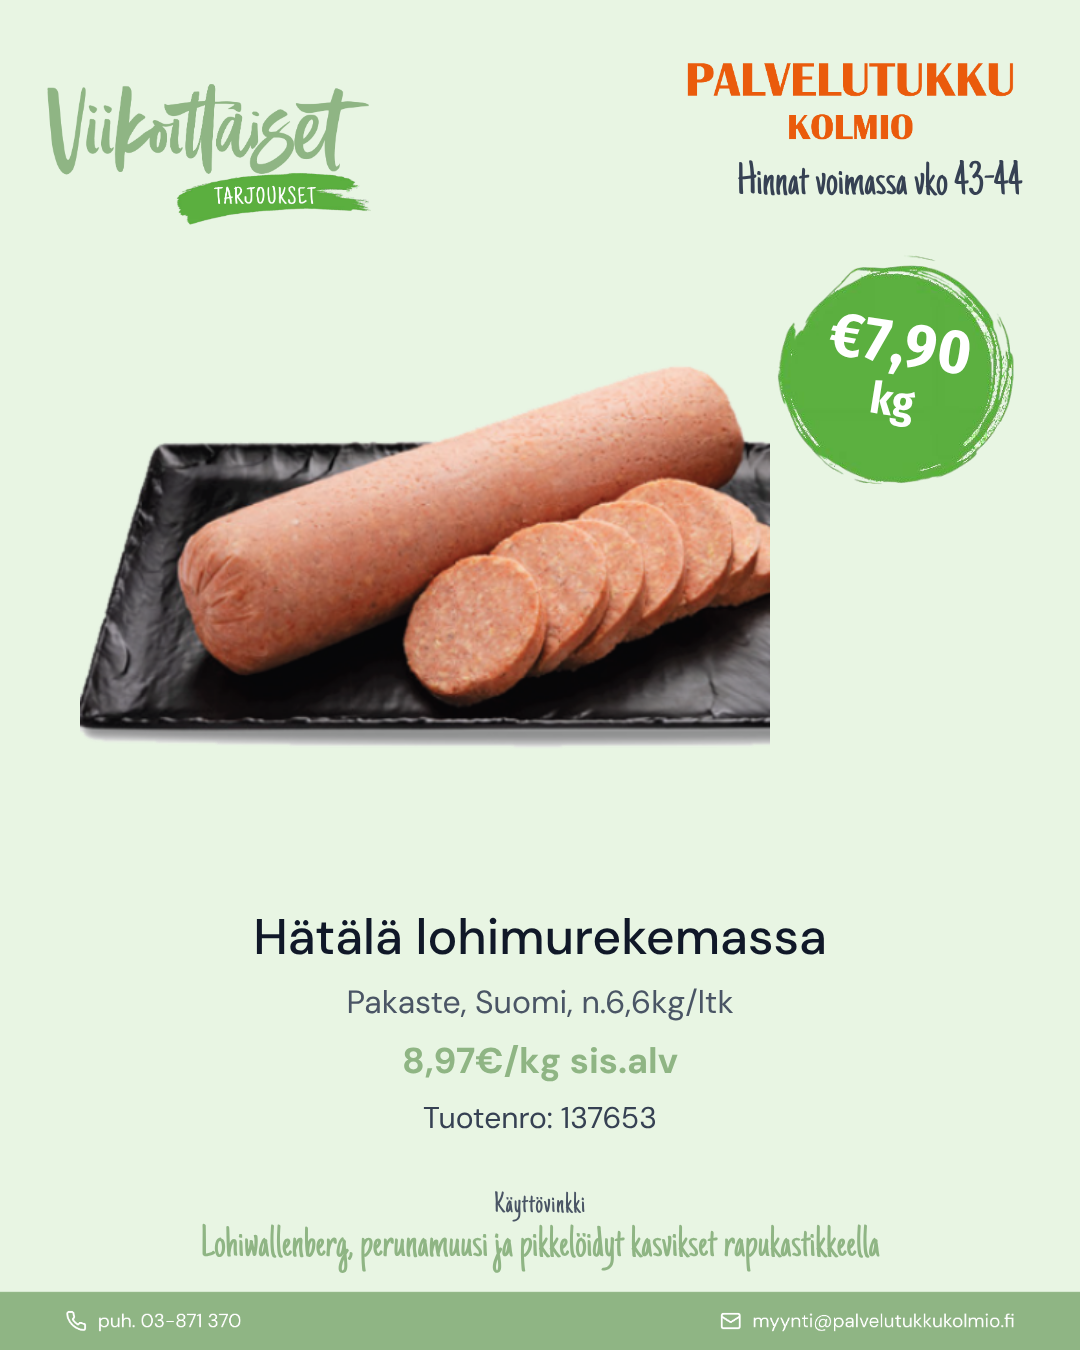
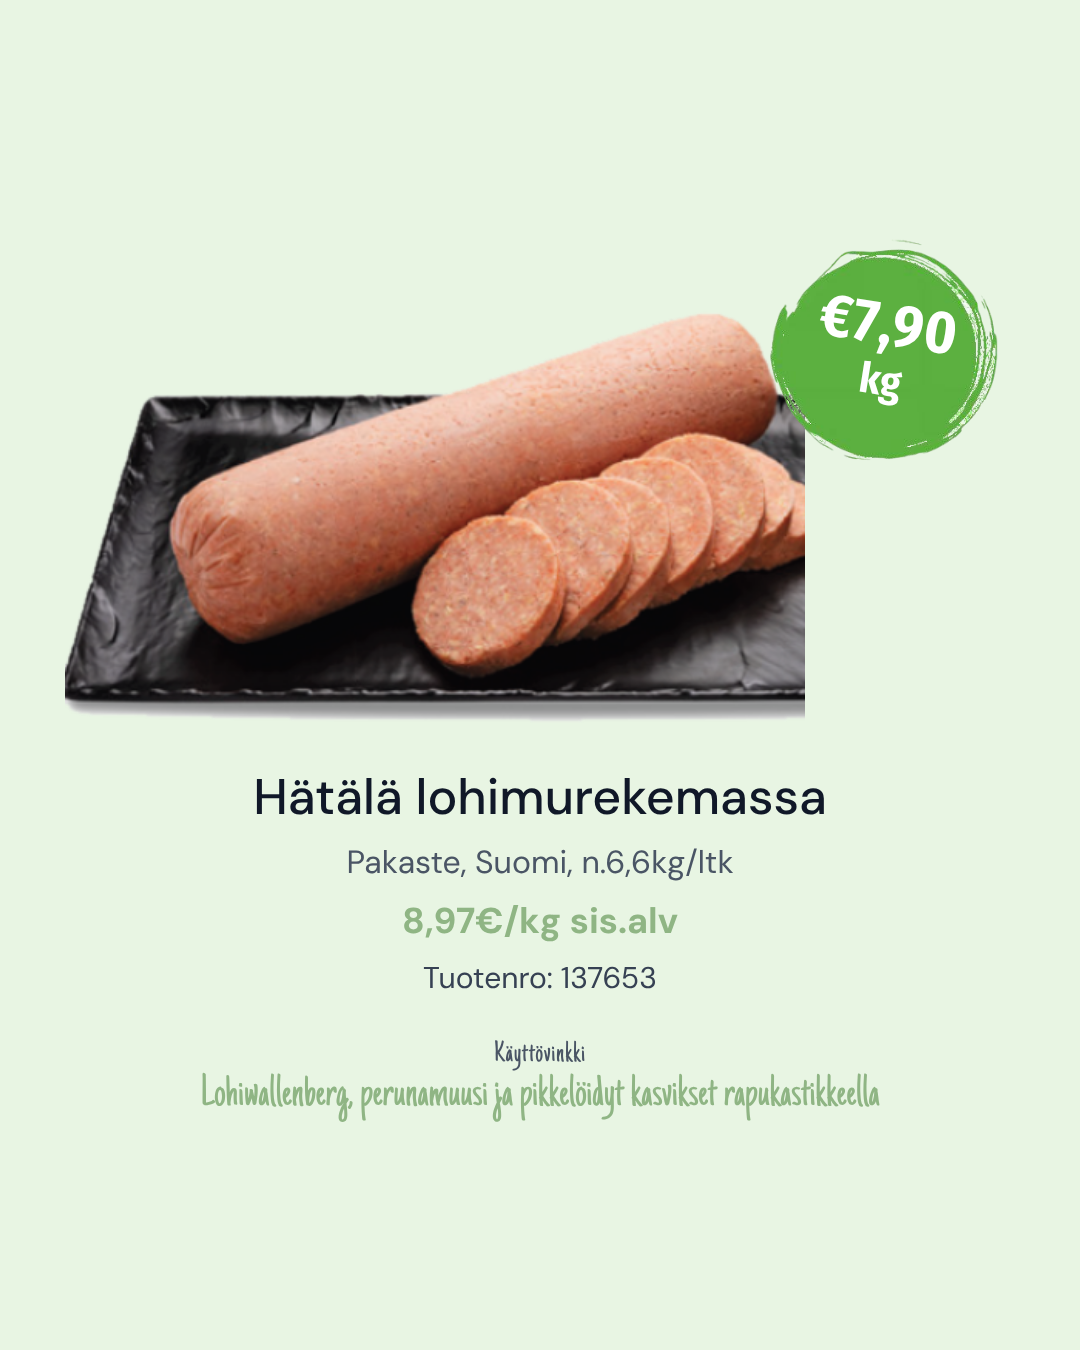
Drop header and footer from Instagram images
Center the product photo, price badge, product details and recipe tip
as one block, and remove the now-unused logo and footer crops.

Claude-Session: https://claude.ai/code/session_01X8Lk915b9RmWmbPNMZUzmb

diff --git a/viikkotarjoukset/insta.py b/viikkotarjoukset/insta.py
@@ -8,6 +8,7 @@ import html
 import os
 import re
 import subprocess
+from PIL import Image
 from decimal import Decimal, ROUND_HALF_UP
 
 from rakenna import ALV, BG, HERE, data_uri, find, money, read_sheet, week_label
@@ -19,46 +20,50 @@ def slug(s):
     return re.sub(r"[^a-z0-9]+", "-", s.lower().translate(str.maketrans("äöå", "aoa"))).strip("-")
 
 
-def page_html(it, week):
+def photo_size(path, max_w, max_h):
+    if not path:
+        return max_w, max_h
+    with Image.open(path) as im:
+        w, h = im.size
+    k = min(max_w / w, max_h / h)
+    return round(w * k), round(h * k)
+
+
+def page_html(it):
     e = html.escape
     a = lambda n: data_uri(os.path.join(HERE, "pohjat", n))
     vat = (it["price"] * ALV).quantize(Decimal("0.01"), ROUND_HALF_UP)
     img = find("kuvat", it["code"])
+    pw, ph = photo_size(img, 740, 600 if it["tip"] else 660)
     tip = (f'<div class="tip"><span>Käyttövinkki</span>{e(it["tip"])}</div>' if it["tip"] else "")
     return f"""<!doctype html><html><head><meta charset="utf-8">
 <link href="https://fonts.googleapis.com/css2?family=DM+Sans:wght@400;500;700&family=Fira+Sans+Condensed:wght@700&family=Just+Another+Hand&display=block" rel="stylesheet">
 <style>
 html,body{{margin:0}}
-body{{width:{W}px;height:{H}px;background:{BG};position:relative;overflow:hidden;font-family:'DM Sans'}}
-body>*{{position:absolute}}
-.vk{{left:34px;top:22px;width:350px}}
-.ot{{right:44px;top:34px;width:400px}}
-.week{{right:58px;top:160px;font:48px/1 'Just Another Hand';color:#364153;white-space:nowrap}}
-.photo{{left:80px;top:262px;width:690px;height:590px;display:flex;align-items:center;justify-content:center}}
-.photo img{{width:100%;height:100%;object-fit:contain}}
-.badge{{left:762px;top:236px;width:270px;height:270px}}
+body{{width:{W}px;height:{H}px;background:{BG};overflow:hidden;font-family:'DM Sans';box-sizing:border-box;
+     padding:60px 60px 70px;display:flex;flex-direction:column;align-items:center;justify-content:center;gap:44px}}
+.top{{display:flex;align-items:flex-start;padding-top:90px}}
+.photo{{display:block;width:{pw}px;height:{ph}px}}
+.badge{{position:relative;width:260px;height:260px;flex:none;margin-left:-50px;margin-top:-90px}}
 .badge img{{width:100%;height:100%;display:block}}
 .bt{{position:absolute;inset:0;display:flex;flex-direction:column;align-items:center;justify-content:center;
      color:#fff;font-family:'Fira Sans Condensed';font-weight:700;transform:rotate(9deg);line-height:1;padding-bottom:6px}}
-.bt b{{font-size:62px;letter-spacing:1px}}
-.bt i{{font-style:normal;font-size:44px;margin-top:6px}}
-.txt{{left:60px;right:60px;top:872px;height:{"300" if tip else "400"}px;display:flex;flex-direction:column;
-      align-items:center;justify-content:center;text-align:center;gap:14px}}
+.bt b{{font-size:60px;letter-spacing:1px}}
+.bt i{{font-style:normal;font-size:42px;margin-top:6px}}
+.txt{{display:flex;flex-direction:column;align-items:center;text-align:center;gap:14px;max-width:960px}}
 .txt p{{margin:0}}
 .nm{{font-weight:500;font-size:50px;line-height:1.18;color:#101828;text-wrap:balance}}
 .mt{{font-size:32px;color:#4a5565}}
 .vat{{font-weight:700;font-size:36px;color:#8fb584}}
 .cd{{font-size:30px;color:#364153}}
-.tip{{left:70px;right:70px;top:1176px;height:110px;display:flex;flex-direction:column;align-items:center;justify-content:center;
-      text-align:center;font:46px/0.95 'Just Another Hand';color:#8fb584;text-wrap:balance}}
+.tip{{display:flex;flex-direction:column;align-items:center;text-align:center;max-width:940px;
+      font:46px/0.95 'Just Another Hand';color:#8fb584;text-wrap:balance}}
 .tip span{{font-size:30px;color:#4a5565;letter-spacing:1px;margin-bottom:6px}}
-.bar{{left:0;bottom:0;width:{W}px}}
 </style></head><body>
-<img class="vk" src="{a('insta/viikoittaiset.png')}">
-<img class="ot" src="{a('insta/otsikko.png')}">
-<div class="week">Hinnat voimassa vko {e(week)}</div>
-<div class="photo">{f'<img src="{data_uri(img)}">' if img else ''}</div>
-<div class="badge"><img src="{a('hintapallo.png')}"><div class="bt"><b>€{money(it["price"])}</b><i>{e(it["unit"])}</i></div></div>
+<div class="top">
+  {f'<img class="photo" src="{data_uri(img)}">' if img else f'<div class="photo"></div>'}
+  <div class="badge"><img src="{a('hintapallo.png')}"><div class="bt"><b>€{money(it["price"])}</b><i>{e(it["unit"])}</i></div></div>
+</div>
 <div class="txt">
   <p class="nm">{e(it["name"])}</p>
   <p class="mt">{e(it["info"])}</p>
@@ -66,7 +71,6 @@ body>*{{position:absolute}}
   <p class="cd">Tuotenro: {e(it["code"])}</p>
 </div>
 {tip}
-<img class="bar" src="{a('insta/alapalkki.png')}">
 </body></html>"""
 
 
@@ -83,7 +87,7 @@ def main():
         name = f"{n:02d}-{it['code']}-{slug(it['name'])}"
         h = os.path.join(build, name + ".html")
         with open(h, "w", encoding="utf-8") as f:
-            f.write(page_html(it, week))
+            f.write(page_html(it))
         jobs += [h, os.path.join(out_dir, name + ".png")]
     npm_root = subprocess.run(["npm", "root", "-g"], capture_output=True, text=True).stdout.strip()
     subprocess.run(["node", os.path.join(HERE, "kuvakaappaus.js"), str(W), str(H), *jobs],
